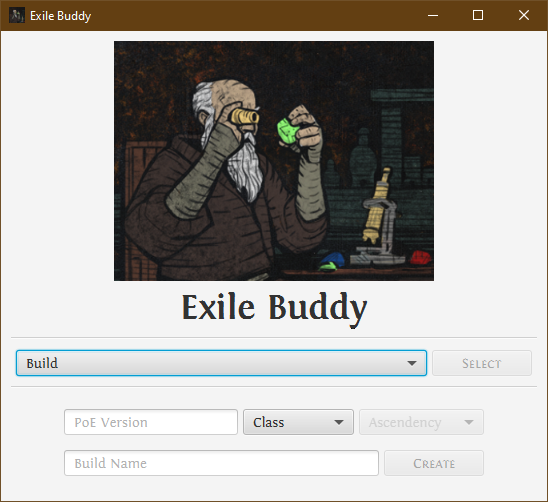
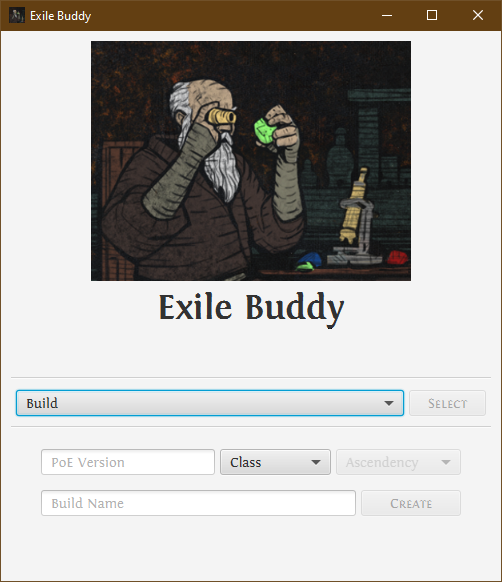
Resize Screenshots

diff --git a/src/main/kotlin/github/macro/ui/Selector.kt b/src/main/kotlin/github/macro/ui/Selector.kt
@@ -26,6 +26,8 @@ class Selector : View("Exile Buddy") {
 	private var ascendencyComboBox: ComboBox<Ascendency> by singleAssign()
 
 	override val root = borderpane {
+		prefWidth = 500.0
+		prefHeight = 550.0
 		paddingAll = 10.0
 		top {
 			paddingAll = 5.0

diff --git a/README.md b/README.md
@@ -26,8 +26,8 @@ $ gradlew clean run
 ```
 
 ## Screenshots
-![Selector-Light](https://raw.githubusercontent.com/Macro303/Exile-Buddy/JDK11/resources/docs/Screen-1-Light.png)
-![Selector-Dark](https://raw.githubusercontent.com/Macro303/Exile-Buddy/JDK11/resources/docs/Screen-1-Dark.png)
+<img src="https://raw.githubusercontent.com/Macro303/Exile-Buddy/JDK11/resources/docs/Screen-1-Light.png" align="left" width="300" height="330" alt="Selection Screen - Light"/>
+<img src="https://raw.githubusercontent.com/Macro303/Exile-Buddy/JDK11/resources/docs/Screen-1-Dark.png" align="left" width="300" height="330" alt="Selection Screen - Dark"/>
 
 ## Socials
 [![Discord | The Playground](https://discord.com/api/v6/guilds/618581423070117932/widget.png?style=banner2)](https://discord.gg/nqGMeGg)
